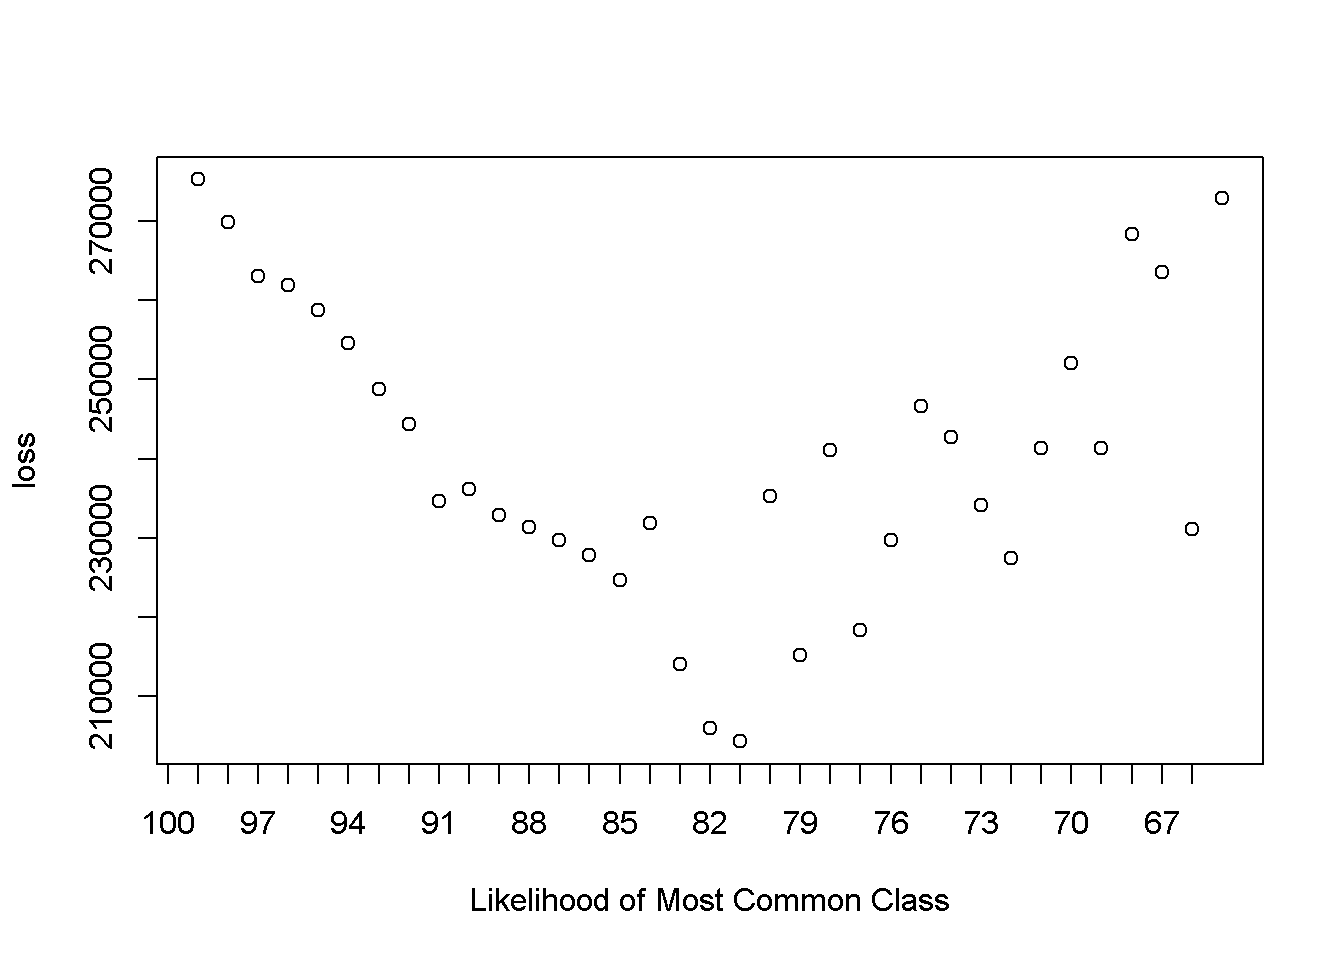
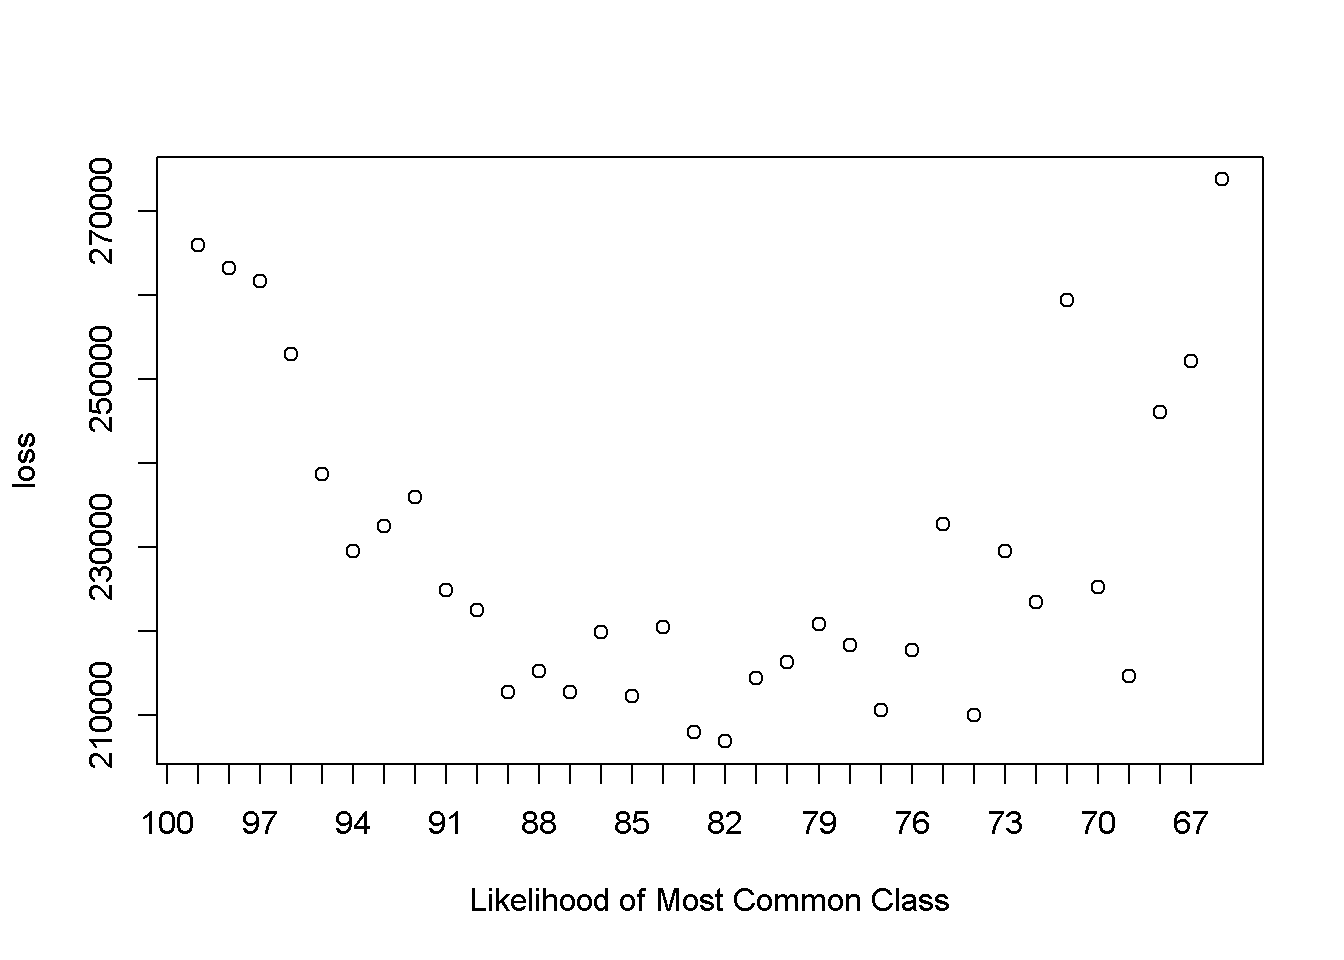
re-ran to fix graph and table, fixed typo

diff --git a/indv_agg_accuracy.html b/indv_agg_accuracy.html
@@ -268,10 +268,10 @@ shares &lt;- d[ ,.N ,by = class]
 shares[ ,share := N/sum(N)]
 
 pander(shares,round = 2)</code></pre>
-<table style="width:26%;">
+<table style="width:29%;">
 <colgroup>
 <col width="11%" />
-<col width="5%" />
+<col width="8%" />
 <col width="9%" />
 </colgroup>
 <thead>
@@ -283,28 +283,28 @@ pander(shares,round = 2)</code></pre>
 </thead>
 <tbody>
 <tr class="odd">
-<td align="center">C</td>
-<td align="center">97</td>
-<td align="center">0.1</td>
-</tr>
-<tr class="even">
 <td align="center">A</td>
-<td align="center">662</td>
-<td align="center">0.66</td>
-</tr>
-<tr class="odd">
-<td align="center">B</td>
-<td align="center">185</td>
-<td align="center">0.18</td>
+<td align="center">671</td>
+<td align="center">0.67</td>
 </tr>
 <tr class="even">
 <td align="center">D</td>
-<td align="center">56</td>
-<td align="center">0.06</td>
+<td align="center">36</td>
+<td align="center">0.04</td>
+</tr>
+<tr class="odd">
+<td align="center">B</td>
+<td align="center">198</td>
+<td align="center">0.2</td>
+</tr>
+<tr class="even">
+<td align="center">C</td>
+<td align="center">95</td>
+<td align="center">0.1</td>
 </tr>
 </tbody>
 </table>
-<p>I’ve found myself of being in roughly this position many times: the task is to make an individual-level prediction, but this is the only real information available. It’s a tough spot, and when I run this issue by other smart people, a common reaction is that the whole project it misguided. To that, I can only say: Defeatism is no plan. And, in fact, the highly-sophisticated, have-to-learn-it-in-grad-school econometric procedure known as <a href="BLP_estimation_cereal.html">BLP Estimation</a> is actually a form of this problem, but the baseline assumption there is that someone has already done the hard data work of scrounging up some <a href="individual_categorial_choices.html#alternative-specific_factors">alternative-specific factors</a> to do the estimation with the benefit of some actual information. But sometimes that isn’t the case.</p>
+<p>I’ve found myself of being in roughly this position many times: the task is to make an individual-level prediction, but this is the only real information available. It’s a tough spot, and when I run this issue by other smart people, a common reaction is that the whole project is doomed. That may be true, I can only say to them that defeatism is no plan. And, in fact, the highly-sophisticated, have-to-learn-it-in-grad-school econometric procedure known as <a href="BLP_estimation_cereal.html">BLP Estimation</a> is actually a form of this problem, but the baseline assumption there is that someone has already done the hard data work of scrounging up some <a href="individual_categorial_choices.html#alternative-specific_factors">alternative-specific factors</a> to do the estimation with the benefit of some actual information. But sometimes that isn’t the case.</p>
 <p>It seems to me there are two basic options, that are both accurate, but in very different ways. The first is to predict everyone is a member of the most common class.</p>
 <pre class="r"><code>m1 &lt;- rep(shares[share == max(share),class],1000)</code></pre>
 <p>The second is to randomly select everyone into a predicted class based on the observed aggregate shares.</p>
@@ -326,10 +326,10 @@ d[
 ]
 
 pander(summary(d[,.(hit1,hit2)])[4,1:2]) # m1 &gt; m2)</code></pre>
-<table style="width:33%;">
+<table style="width:39%;">
 <colgroup>
-<col width="16%" />
-<col width="16%" />
+<col width="19%" />
+<col width="19%" />
 </colgroup>
 <thead>
 <tr class="header">
@@ -339,8 +339,8 @@ pander(summary(d[,.(hit1,hit2)])[4,1:2]) # m1 &gt; m2)</code></pre>
 </thead>
 <tbody>
 <tr class="odd">
-<td align="center">Mean :0.662</td>
-<td align="center">Mean :0.199</td>
+<td align="center">Mean :0.671</td>
+<td align="center">Mean :0.47</td>
 </tr>
 </tbody>
 </table>
@@ -370,10 +370,10 @@ shares[
 shares[is.na(shares2),shares2:=0]
 
 pander(shares)</code></pre>
-<table style="width:56%;">
+<table style="width:58%;">
 <colgroup>
 <col width="11%" />
-<col width="5%" />
+<col width="8%" />
 <col width="11%" />
 <col width="13%" />
 <col width="13%" />
@@ -389,32 +389,32 @@ pander(shares)</code></pre>
 </thead>
 <tbody>
 <tr class="odd">
-<td align="center">C</td>
-<td align="center">97</td>
-<td align="center">0.097</td>
-<td align="center">0</td>
-<td align="center">0.198</td>
-</tr>
-<tr class="even">
 <td align="center">A</td>
-<td align="center">662</td>
-<td align="center">0.662</td>
+<td align="center">671</td>
+<td align="center">0.671</td>
 <td align="center">1</td>
-<td align="center">0.095</td>
-</tr>
-<tr class="odd">
-<td align="center">B</td>
-<td align="center">185</td>
-<td align="center">0.185</td>
-<td align="center">0</td>
-<td align="center">0.653</td>
+<td align="center">0.671</td>
 </tr>
 <tr class="even">
 <td align="center">D</td>
-<td align="center">56</td>
-<td align="center">0.056</td>
+<td align="center">36</td>
+<td align="center">0.036</td>
 <td align="center">0</td>
-<td align="center">0.054</td>
+<td align="center">0.087</td>
+</tr>
+<tr class="odd">
+<td align="center">B</td>
+<td align="center">198</td>
+<td align="center">0.198</td>
+<td align="center">0</td>
+<td align="center">0.033</td>
+</tr>
+<tr class="even">
+<td align="center">C</td>
+<td align="center">95</td>
+<td align="center">0.095</td>
+<td align="center">0</td>
+<td align="center">0.209</td>
 </tr>
 </tbody>
 </table>
@@ -455,27 +455,27 @@ return(p)
 test &lt;- m(0.99)
 
 pander(test)</code></pre>
-<table style="width:43%;">
+<table style="width:56%;">
 <colgroup>
-<col width="6%" />
-<col width="11%" />
-<col width="12%" />
-<col width="12%" />
+<col width="9%" />
+<col width="15%" />
+<col width="15%" />
+<col width="15%" />
 </colgroup>
 <thead>
 <tr class="header">
 <th align="center">A</th>
-<th align="center">C</th>
-<th align="center">B</th>
 <th align="center">D</th>
+<th align="center">B</th>
+<th align="center">C</th>
 </tr>
 </thead>
 <tbody>
 <tr class="odd">
 <td align="center">0.99</td>
-<td align="center">0.00287</td>
-<td align="center">0.005473</td>
-<td align="center">0.001657</td>
+<td align="center">0.001094</td>
+<td align="center">0.006018</td>
+<td align="center">0.002888</td>
 </tr>
 </tbody>
 </table>
@@ -484,27 +484,27 @@ pander(test)</code></pre>
 test &lt;- m(0.75)
 
 pander(test)</code></pre>
-<table style="width:38%;">
+<table style="width:49%;">
 <colgroup>
-<col width="6%" />
-<col width="11%" />
 <col width="9%" />
-<col width="9%" />
+<col width="13%" />
+<col width="12%" />
+<col width="12%" />
 </colgroup>
 <thead>
 <tr class="header">
 <th align="center">A</th>
-<th align="center">C</th>
-<th align="center">B</th>
 <th align="center">D</th>
+<th align="center">B</th>
+<th align="center">C</th>
 </tr>
 </thead>
 <tbody>
 <tr class="odd">
 <td align="center">0.75</td>
-<td align="center">0.07175</td>
-<td align="center">0.1368</td>
-<td align="center">0.04142</td>
+<td align="center">0.02736</td>
+<td align="center">0.1505</td>
+<td align="center">0.07219</td>
 </tr>
 </tbody>
 </table>
@@ -513,27 +513,27 @@ pander(test)</code></pre>
 test &lt;- m(0.5)
 
 pander(test)</code></pre>
-<table style="width:35%;">
+<table style="width:47%;">
 <colgroup>
-<col width="5%" />
-<col width="9%" />
-<col width="9%" />
-<col width="9%" />
+<col width="8%" />
+<col width="13%" />
+<col width="12%" />
+<col width="12%" />
 </colgroup>
 <thead>
 <tr class="header">
 <th align="center">A</th>
-<th align="center">C</th>
-<th align="center">B</th>
 <th align="center">D</th>
+<th align="center">B</th>
+<th align="center">C</th>
 </tr>
 </thead>
 <tbody>
 <tr class="odd">
 <td align="center">0.5</td>
-<td align="center">0.1435</td>
-<td align="center">0.2737</td>
-<td align="center">0.08284</td>
+<td align="center">0.05471</td>
+<td align="center">0.3009</td>
+<td align="center">0.1444</td>
 </tr>
 </tbody>
 </table>
@@ -580,7 +580,7 @@ loss[j] &lt;-
 axis(1, at = 1:length(100:round((shares[,max(share)]*100),0))-1, labels = 100:round((shares[,max(share)]*100),0))</code></pre>
 <p><img src="indv_agg_accuracy_files/figure-html/unnamed-chunk-9-1.png" width="672" /></p>
 <pre class="r"><code>(100 - which(loss == min(loss)))/100</code></pre>
-<pre><code>## [1] 0.81</code></pre>
+<pre><code>## [1] 0.82</code></pre>
 <p>Of course, this is just one loss function of many, so within this framework, you could set up any trade-off you want between individual-level accuracy and aggregate share accuracy.</p>
 <p>Or, you know, get some real data.</p>
 
